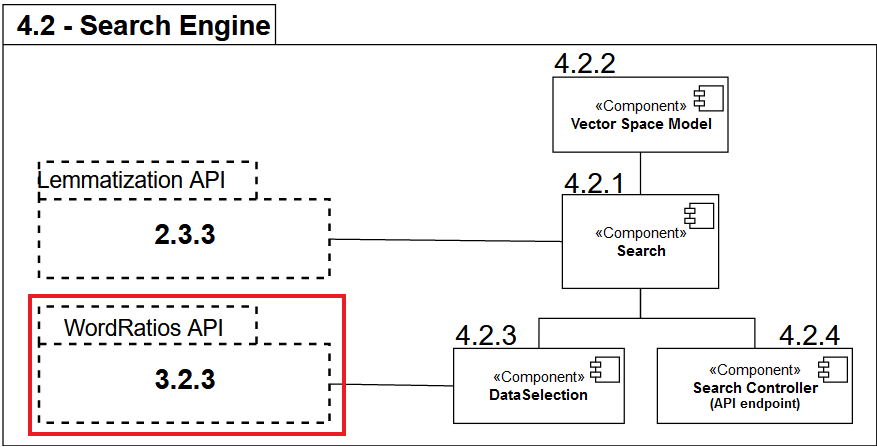
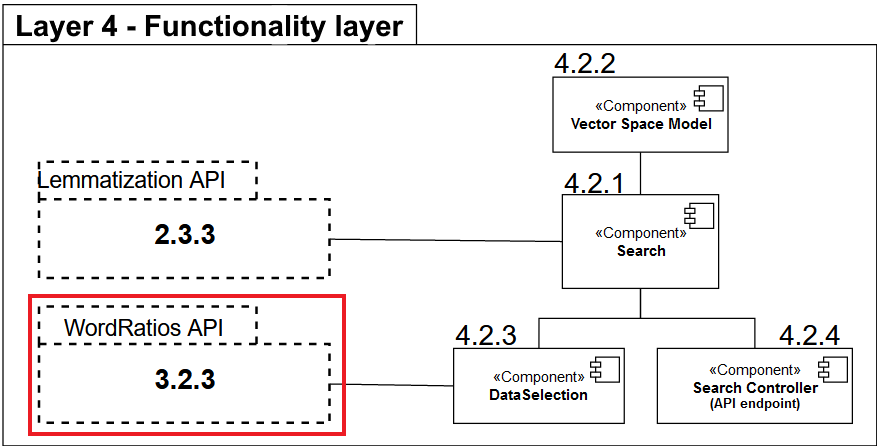
Wip

Changed region(s): [[0.0, 0.0, 0.4926, 0.0872]]

diff --git a/sections/Chapter 5 Sprint 3/CRUD.tex b/sections/Chapter 5 Sprint 3/CRUD.tex
@@ -15,7 +15,24 @@ The pipeline for the API is outlined in figure \ref{Node02Sprint3}.
 \end{figure}
 
 In the following sections we will describe how the API, and the validation were implemented. Additionally, we will cover the re-design of the database.
-In order to illustrate how our layer interacts with the adjacent layers' components, we have included figure ref 
+
+In order to illustrate how our layer interacts with the adjacent layers' components, we have included figure \ref{PipelineLayer2} and \ref{PipelineLayer4} 
+
+\begin{figure}[h]
+    \centering
+    \includegraphics[width=\linewidth]{Images/PipeLineLayer2.png}
+    \caption{Illustration of how the second layer interacts with our APIs.}
+    \label{PipelineLayer2}
+\end{figure}
+
+\begin{figure}[h]
+    \centering
+    \includegraphics[width=\linewidth]{Images/PipeLineLayer4SE.png}
+    \caption{Illustration of how the fourth layer interacts with our APIs.}
+    \label{PipelineLayer4}
+\end{figure}
+
+The respective APIs that the two adjacent layers use as part of their pipeline are highlighted in red. 
 
 \subsubsection{WordCount}
 
